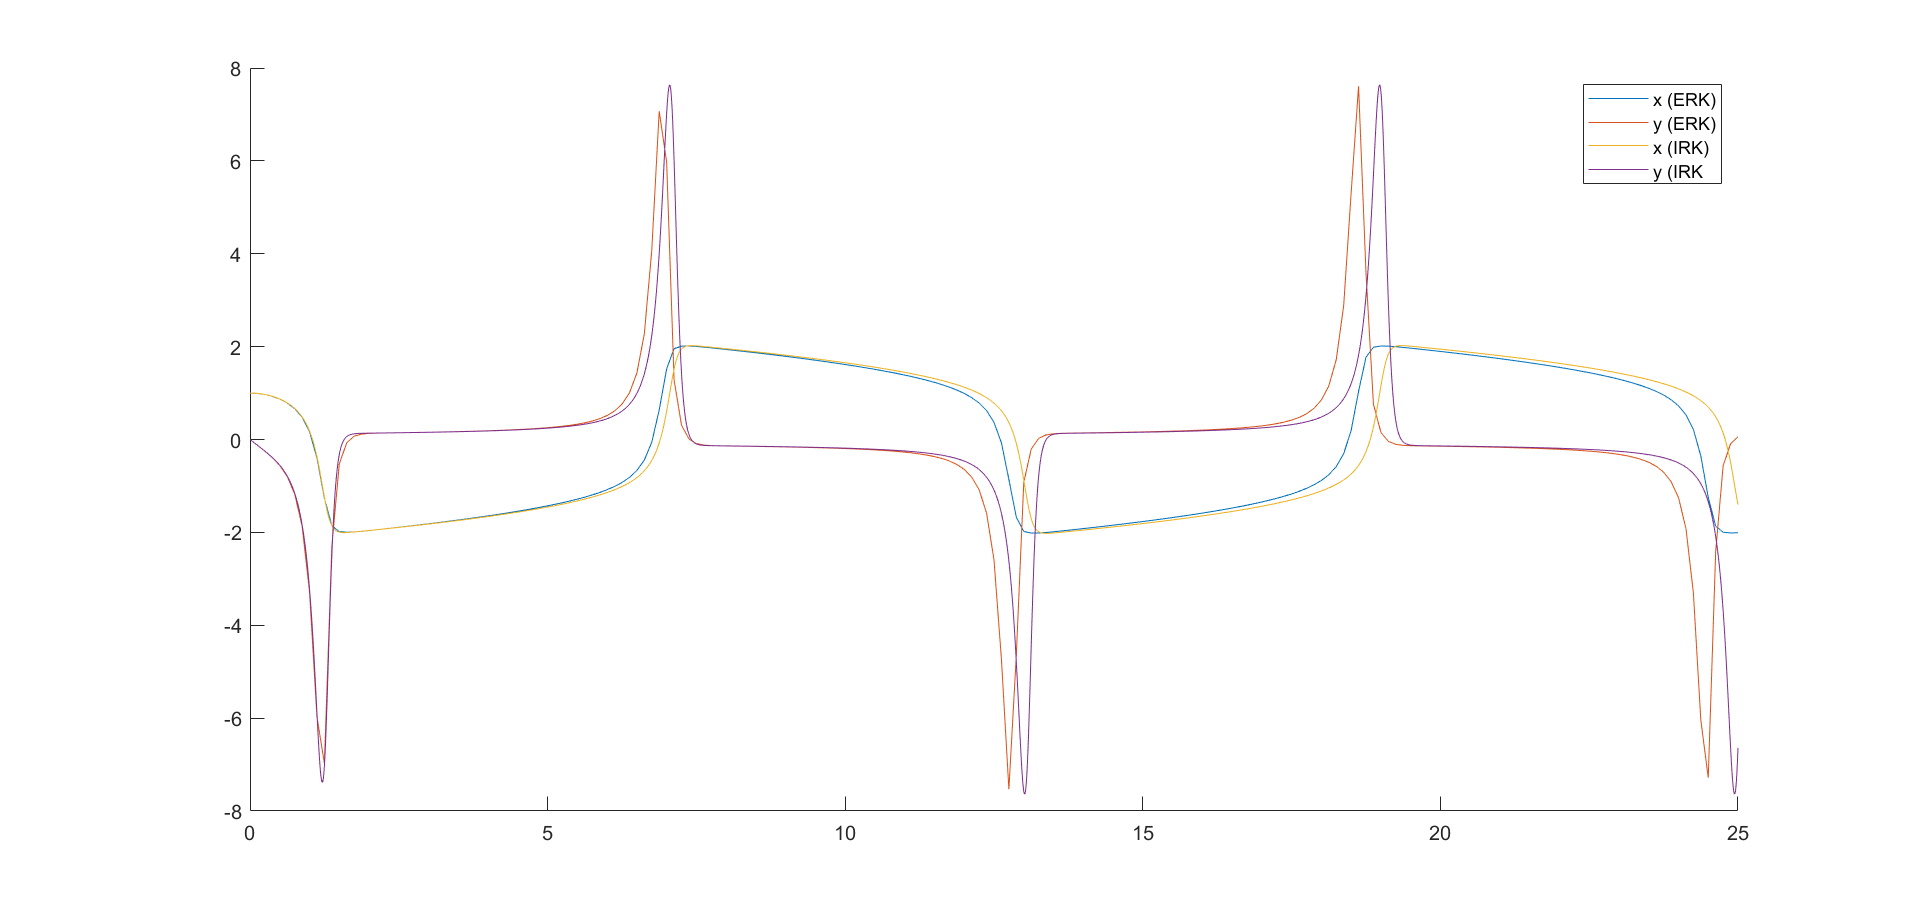
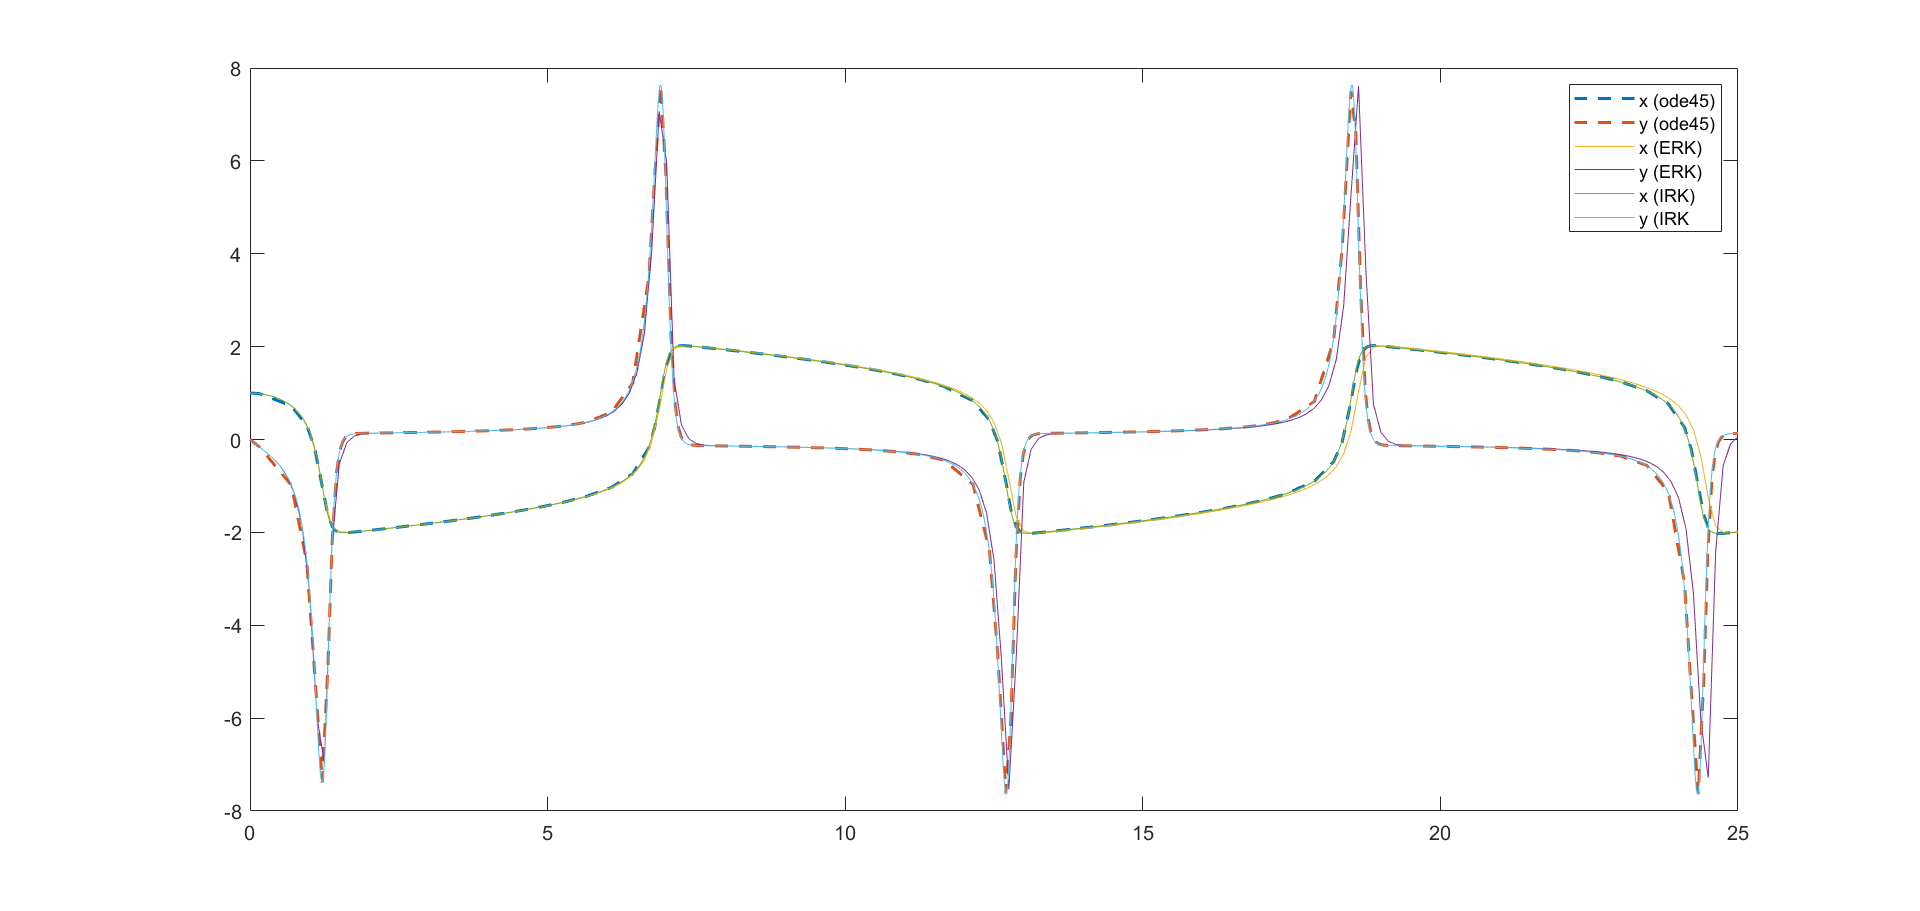
a4 e2 done

diff --git a/Assignment-4/Assignment4.m b/Assignment-4/Assignment4.m
@@ -87,13 +87,13 @@ f = @(x) [x(2);
 
 
 % Tolerance 
-tol = 1e-2;
+tol = 1e-4;
 
 % Constants
 dt = 1e-2;
 tf = 25;
 N = tf/dt;
-alpha = 0.1;
+alpha = 0.01;
 
 % K
 
